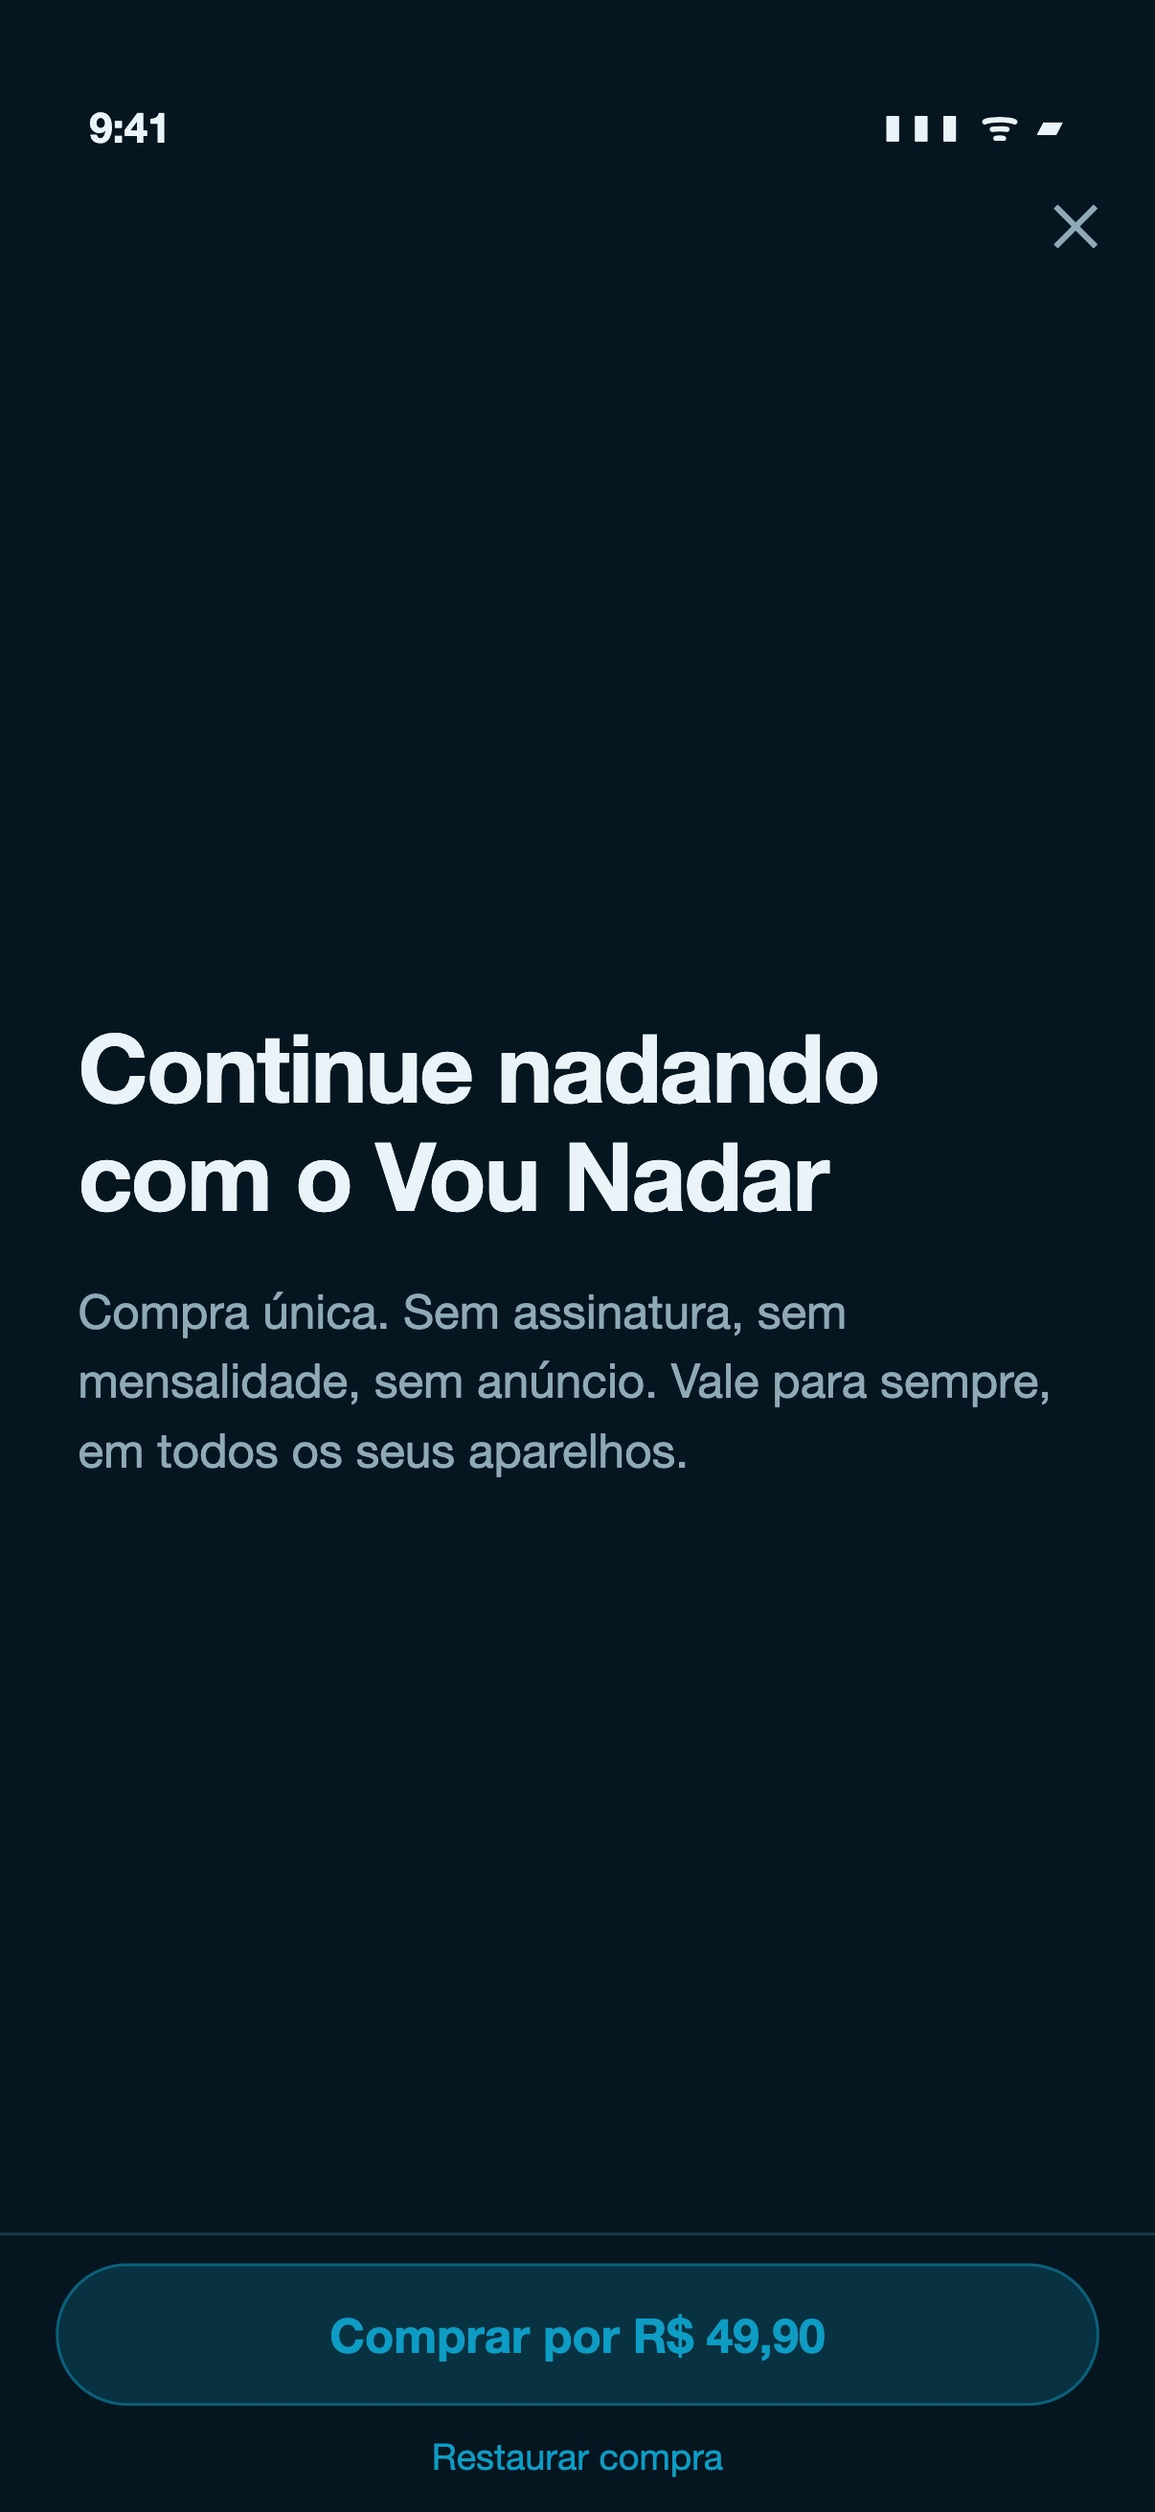
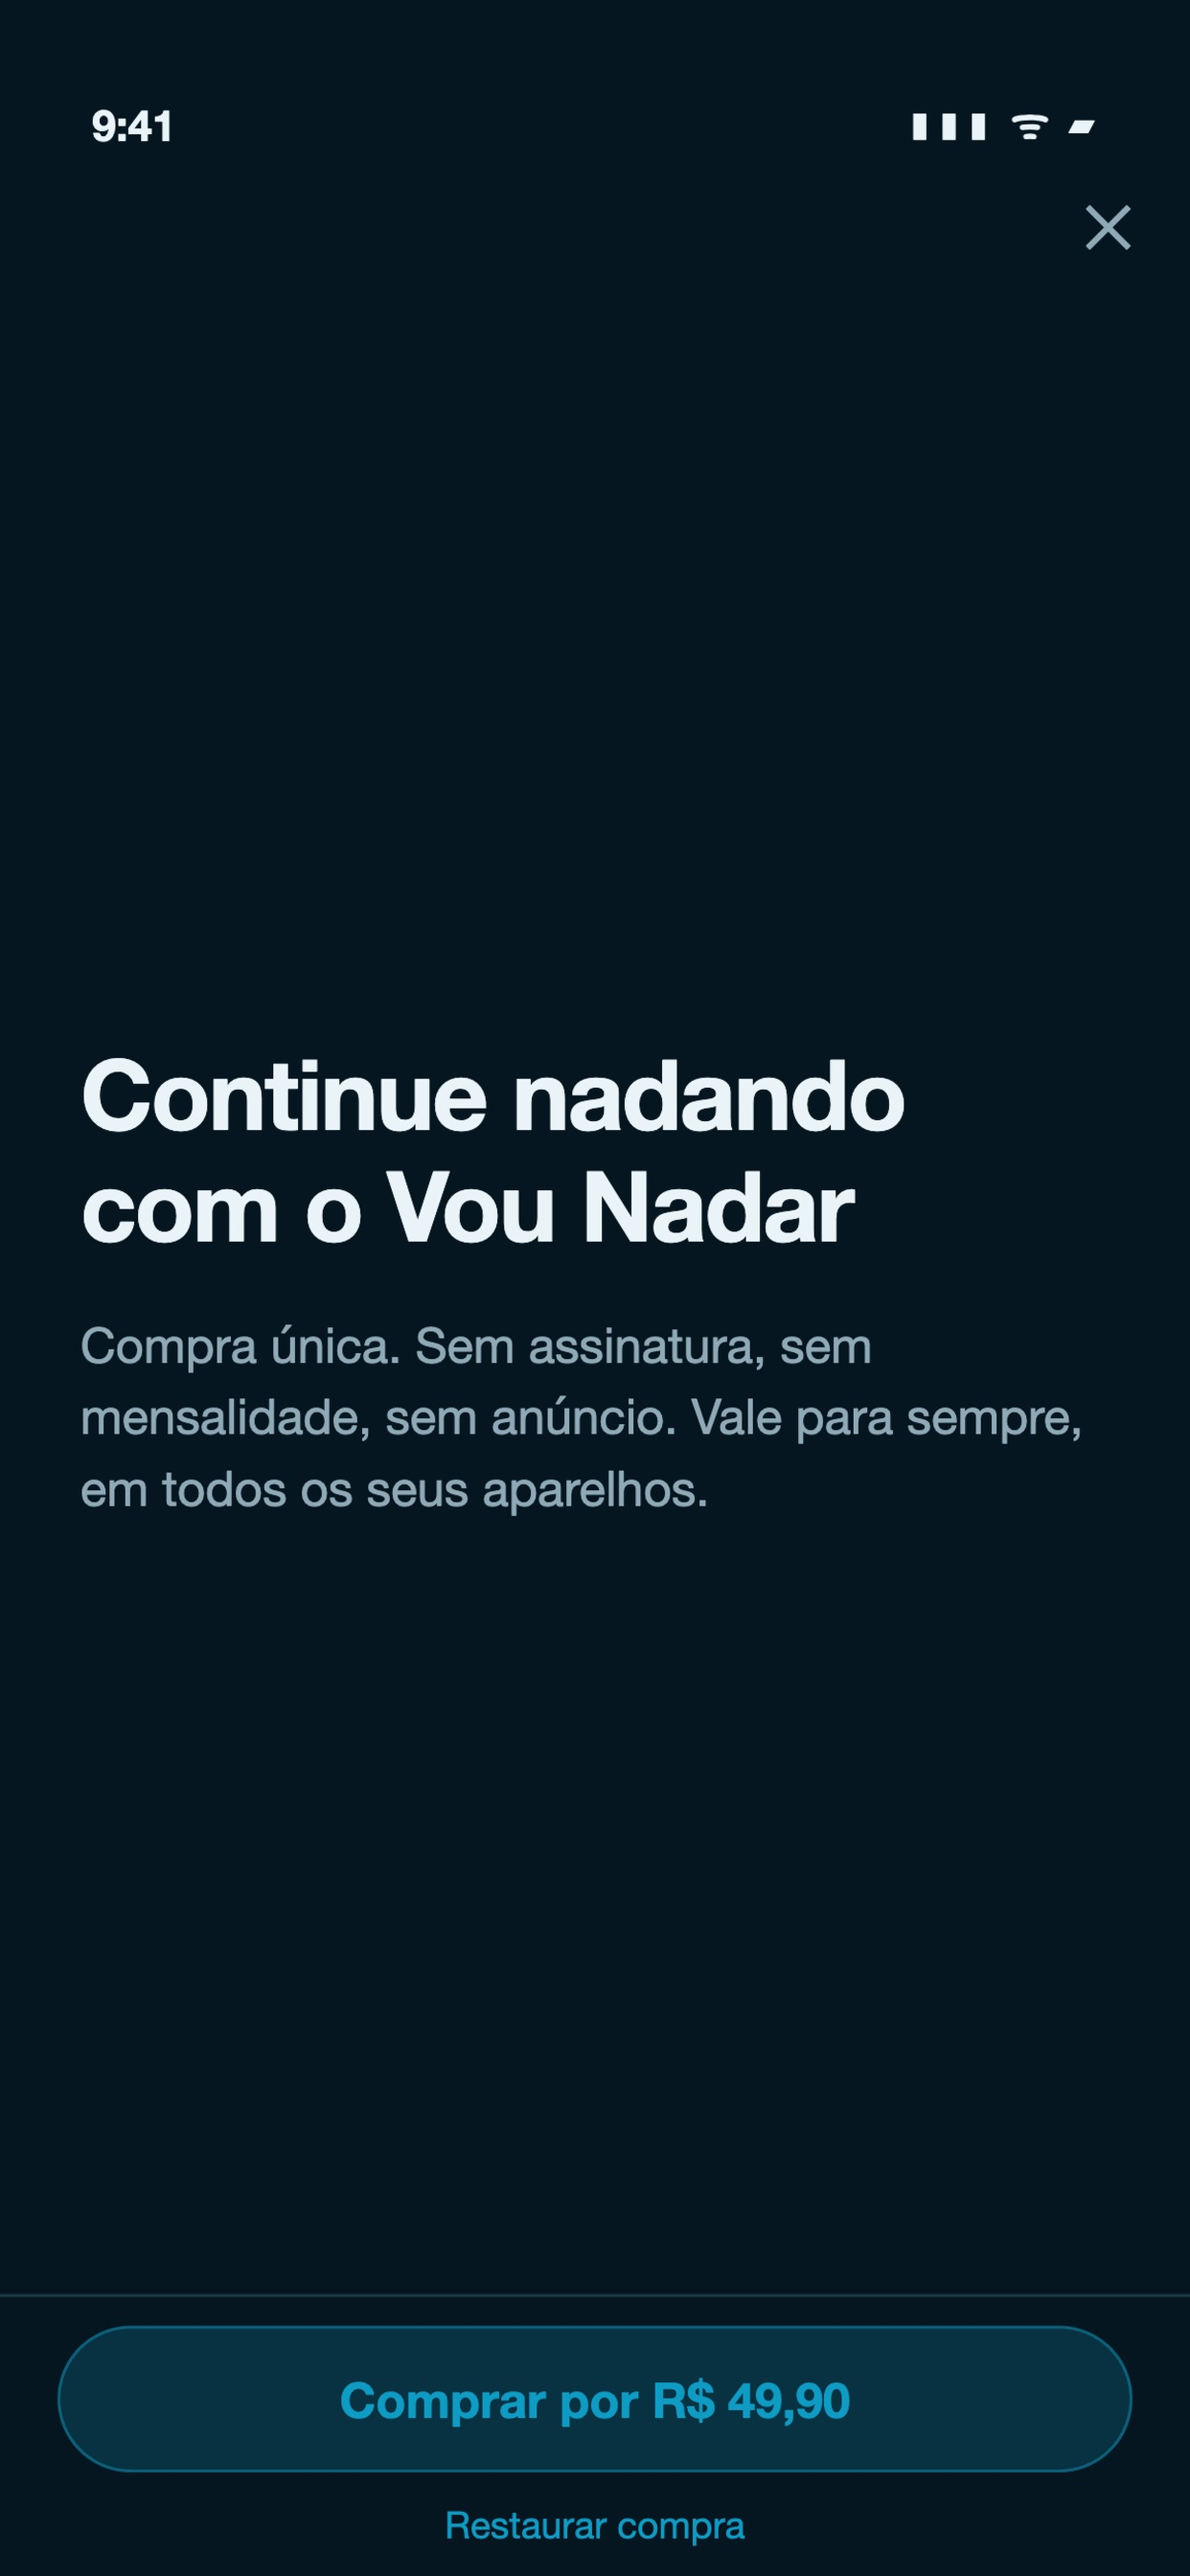
Print da compra: o problema era canal alfa, não tamanho
O App Store Connect recusa imagem com transparência e não diz o motivo. O
print recusado era 8-bit RGBA; o do Bilhete que a Apple aceitou é RGB sem alfa.
1206x2622 já passava do mínimo de 640x920 — o tamanho nunca foi o problema.

- ROTEIRO-PRINTS.md seção 6: reescrita com o diagnóstico e o que pedir ao
  design (PNG RGB, sem alfa, sRGB, 1242x2688). Sai a ressalva do "$49.90", que
  não vale mais — o preço aparece certo
- app-store-connect-vou-nadar.md: mesma correção na seção da compra
- preparar-print-da-compra.py: achata o alfa sobre o fundo do app e normaliza
  para 1242x2688, para converter captura crua sem regerar

Falta o arquivo final entrar no repositório: o que está em app-store/in-app/
ainda é a captura antiga, e ela mostra a tela de início do simulador, não o
paywall.

diff --git a/app-store/preparar-print-da-compra.py b/app-store/preparar-print-da-compra.py
@@ -1,0 +1,78 @@
+#!/usr/bin/env python3
+"""Prepara a captura do paywall para o App Store Connect.
+
+    python3 app-store/preparar-print-da-compra.py <captura.png>
+
+O App Store Connect **recusa imagem com canal alfa**, e toda captura de
+simulador sai em RGBA. É por isso que um print que parece perfeito é rejeitado
+sem explicação útil — o problema não está no que a imagem mostra, está no que
+ela carrega.
+
+Comparação que fecha o diagnóstico:
+
+    print recusado : 8-bit RGBA, hasAlpha=yes
+    print do Bilhete que a Apple aceitou : 8-bit RGB, hasAlpha=no
+
+O script achata o alfa sobre o fundo do próprio app (#061620), converte para RGB
+puro em sRGB e normaliza para 1242 × 2688 — o mesmo tamanho do print aceito do
+Bilhete. O redimensionamento é "encaixar e preencher": nada é cortado, e a
+sobra é preenchida com a cor de fundo do app, que é invisível na tela escura.
+"""
+import sys
+from pathlib import Path
+
+from PIL import Image
+
+# Fundo do app no tema escuro (token BackgroundPrimary, variante escura).
+FUNDO = (0x06, 0x16, 0x20)
+
+# O mesmo tamanho do print do Bilhete que a Apple aceitou.
+ALVO = (1242, 2688)
+
+DESTINO = Path("app-store/in-app/review-screenshot-com.dablab.vounadar.completo.png")
+
+
+def main(argv):
+    if len(argv) != 2:
+        print(__doc__)
+        return 2
+
+    origem = Path(argv[1])
+    if not origem.exists():
+        print(f"não achei {origem}")
+        return 1
+
+    img = Image.open(origem)
+    print(f"entrada: {img.width} × {img.height}, modo {img.mode}")
+
+    # Achata o alfa sobre o fundo do app. Composite, e não simples descarte do
+    # canal: pixel semitransparente descartado vira borda suja.
+    if img.mode in ("RGBA", "LA", "P"):
+        img = img.convert("RGBA")
+        fundo = Image.new("RGB", img.size, FUNDO)
+        fundo.paste(img, mask=img.split()[-1])
+        img = fundo
+    else:
+        img = img.convert("RGB")
+
+    # Encaixa dentro do alvo sem cortar nada, e preenche a sobra.
+    escala = min(ALVO[0] / img.width, ALVO[1] / img.height)
+    novo = (round(img.width * escala), round(img.height * escala))
+    img = img.resize(novo, Image.LANCZOS)
+
+    peca = Image.new("RGB", ALVO, FUNDO)
+    peca.paste(img, ((ALVO[0] - novo[0]) // 2, (ALVO[1] - novo[1]) // 2))
+
+    DESTINO.parent.mkdir(parents=True, exist_ok=True)
+    peca.save(DESTINO, "PNG", optimize=True)
+
+    print(f"saída  : {peca.width} × {peca.height}, modo {peca.mode}, sem alfa")
+    print(f"gravado: {DESTINO}")
+    print()
+    print("confira antes de subir:")
+    print(f'  sips -g pixelWidth -g pixelHeight -g hasAlpha "{DESTINO}"')
+    return 0
+
+
+if __name__ == "__main__":
+    sys.exit(main(sys.argv))

diff --git a/app-store/ROTEIRO-PRINTS.md b/app-store/ROTEIRO-PRINTS.md
@@ -176,40 +176,50 @@ de marketing: o formato é pequeno demais para comportar composição.
 seção "Review Information" — ele existe para o revisor conferir que a tela de
 compra é a que o app mostra, então foto de fundo e texto de marketing atrapalham.
 
-### O arquivo já está gerado
+### O que a App Store recusa, e o que resolveu
 
-`app-store/in-app/review-screenshot-com.dablab.vounadar.completo.png` —
-**1206 × 2622 px**, bem acima do mínimo de 640 × 920 que a App Store exige.
-Mostra a tela P7 completa: título, corpo, botão de compra com o preço e
-"Restaurar compra", com a barra de status em 9:41.
+O primeiro envio foi **recusado**, e a mensagem do App Store Connect não diz o
+motivo. A diferença estava no arquivo, não no que ele mostra — comparado com o
+print do Bilhete, que a Apple aceitou:
 
-### ⚠ Ele precisa ser REGERADO antes de submeter
+```
+recusado : 8-bit RGBA, hasAlpha=yes
+aceito   : 8-bit RGB,  hasAlpha=no
+```
 
-O preço no print atual sai em **dólar** (`$49.90`), não em real. O motivo:
+**Canal alfa.** O App Store Connect recusa imagem com transparência, e toda
+captura de simulador sai em RGBA. O tamanho não era o problema: 1206 × 2622 já
+passava folgado do mínimo de 640 × 920.
 
-- o arquivo `.storekit` local é ferramenta de **teste**, e o preço que ele
-  mostra depende da vitrine do simulador, que é a americana;
-- forçar `"_storefront": "BRA"` no arquivo **quebra**: o produto some, porque a
-  configuração local não tem faixa de preço para aquela vitrine, e a tela fica
-  sem botão de compra — pior que o dólar.
+Ao pedir a peça para o design, peça explicitamente **PNG em RGB, sem canal alfa,
+sRGB, 1242 × 2688** — o mesmo tamanho das composições da galeria e do print
+aceito do Bilhete. Feito isso, a Apple aceitou.
 
-O valor **49,90 está certo** e vem do arquivo; o que está errado é só o símbolo
-da moeda. O print definitivo tem que sair de um build com o **produto real do
-App Store Connect**, onde o preço vem da loja e aparece como `R$ 49,90`.
+Se você tiver uma captura crua com alfa e quiser só converter, há um script:
 
-Como regerar, depois de o produto existir no App Store Connect:
+```bash
+python3 app-store/preparar-print-da-compra.py <captura.png>
+```
+
+Ele achata o alfa sobre o fundo do app (#061620), converte para RGB em sRGB e
+normaliza para 1242 × 2688 sem cortar nada.
+
+### Como capturar
 
 ```bash
 xcrun simctl status_bar "iPhone 17 Pro" override --time "9:41" \
   --batteryState charged --batteryLevel 100 --cellularBars 4 --wifiBars 3
 xcrun simctl launch "iPhone 17 Pro" com.dablab.vounadar
 # Ajustes › Comprar o Vou Nadar completo
-xcrun simctl io "iPhone 17 Pro" screenshot --type=png \
-  app-store/in-app/review-screenshot-com.dablab.vounadar.completo.png
+xcrun simctl io "iPhone 17 Pro" screenshot --type=png captura.png
 ```
 
-Conferir antes de subir: o botão diz **`Comprar por R$ 49,90`**, e não `$49.90`
-nem `R$ 29,90`.
+Conferir antes de subir — o botão diz **`Comprar por R$ 49,90`**, e a imagem não
+tem alfa:
+
+```bash
+sips -g pixelWidth -g pixelHeight -g hasAlpha app-store/in-app/review-screenshot-com.dablab.vounadar.completo.png
+```
 
 **Divergência registrada:** as telas exportadas do Claude Design mostram
 `Comprar por R$ 29,90`. O valor correto é **R$ 49,90** — preço é regra de negócio

diff --git a/app-store/app-store-connect-vou-nadar.md b/app-store/app-store-connect-vou-nadar.md
@@ -328,10 +328,10 @@ O Product ID está escrito em `PurchaseGate.identificadorDoProduto` e no
 `VouNadar.storekit`, e há um teste que reprova o build se os três divergirem.
 **Não mude o ID aqui sem mudar lá.**
 
-**Screenshot de revisão:** existe um em `app-store/in-app/`, mas leia a seção 6
-do [`ROTEIRO-PRINTS.md`](ROTEIRO-PRINTS.md) — **ele precisa ser regerado** antes
-de submeter, porque foi capturado contra o `.storekit` local e mostra `$49.90` em
-vez de `R$ 49,90`. Com o produto real criado aqui, o preço sai certo.
+**Screenshot de revisão:** a tela P7 (paywall), em **PNG RGB sem canal alfa**,
+1242 × 2688. O canal alfa é o que faz o App Store Connect recusar sem dizer o
+motivo — toda captura de simulador sai em RGBA. Ver a seção 6 do
+[`ROTEIRO-PRINTS.md`](ROTEIRO-PRINTS.md).
 
 **Review notes do produto:**
 ```
